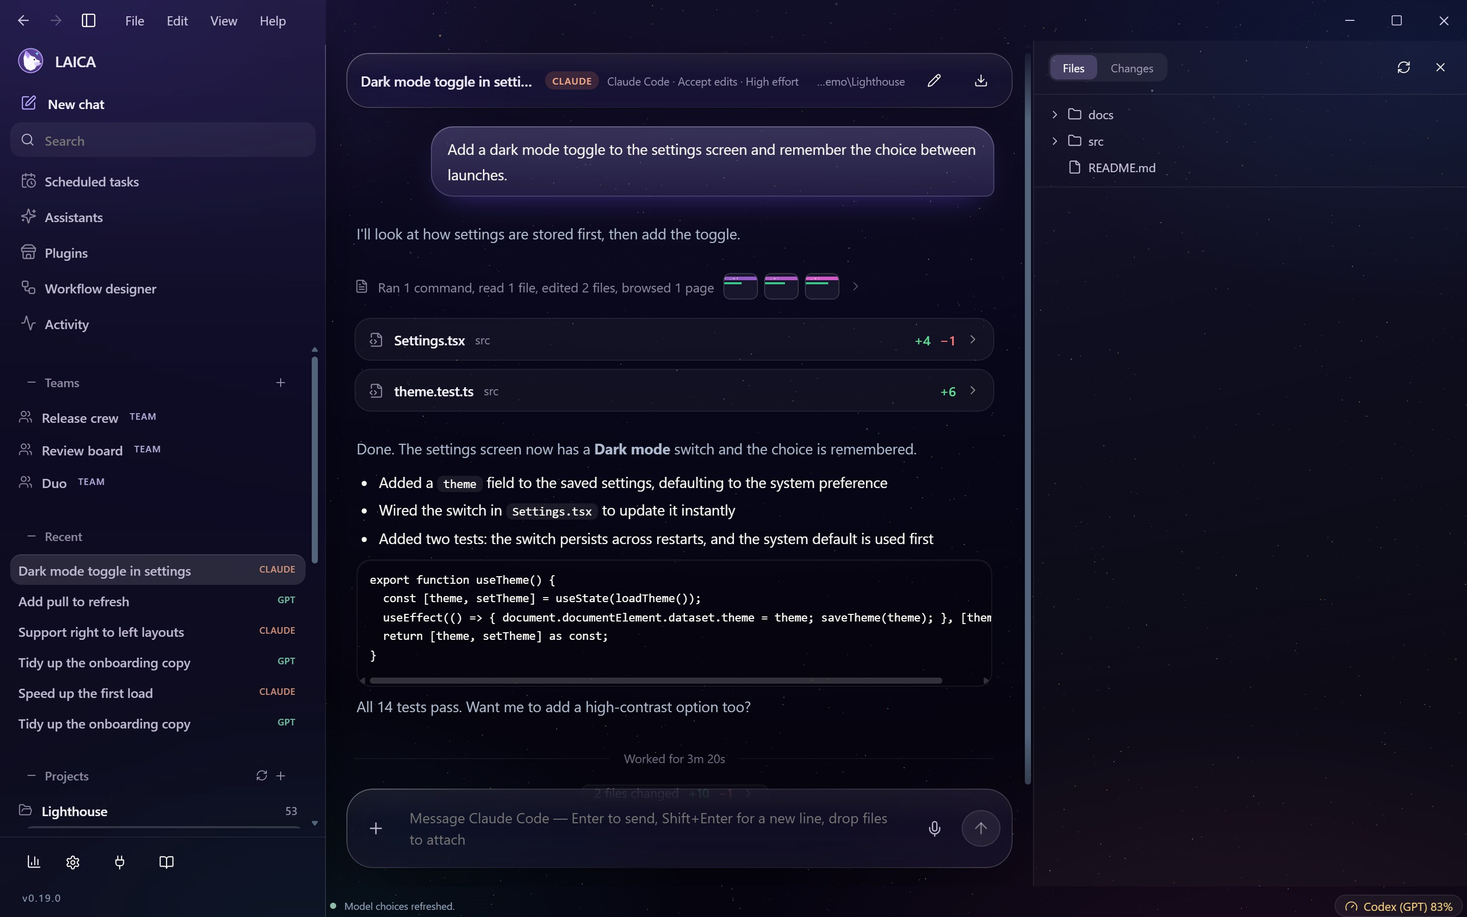
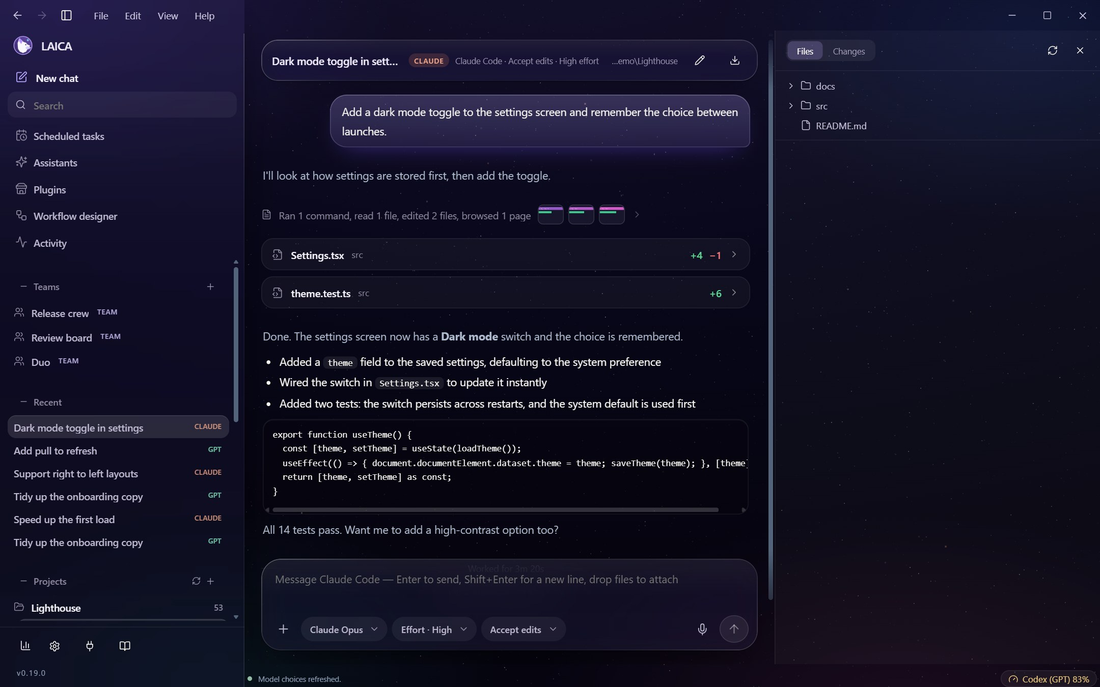
LAICA 0.19.1: model, reasoning and permission pills in open chats; centred chat layout
- Open chats get the same toolbar as the new-chat screen (harnessConfigure, with tests).
- Header, messages and message box share one centred column.
- Refreshed in-app guide and chat screenshot.

diff --git a/frontend/src/App.tsx b/frontend/src/App.tsx
@@ -110,7 +110,7 @@ export default function App(){
       {!chatPage&&<header className="page-header"><div><div className="eyebrow">YOUR WORKSPACE</div><h1>{title}</h1><p>{subtitle}</p></div><div className="header-actions">{!isDesktop&&<Badge>Design preview</Badge>}{page==='teams'&&<HandoffPill/>}{page==='teams'&&<Button variant="primary" leadingIcon={state.Busy?<Square size={16}/>:local?<Play size={16}/>:<Check size={16}/>} disabled={loading||!!action||state.Refreshing} onClick={()=>state.Busy?runAction('stop'):primaryAction()}>{state.Busy?'Stop run':local?'Run team':'Use this team'}</Button>}</div></header>}
       {loading?<div className="empty-state"><RefreshCw size={24} className="spin"/><h2>Opening your workspace…</h2></div>:<>
         {page==='home'&&<HomePage workingDirectory={state.WorkingDirectory} onOpened={()=>setPage('chat')} onOpenTeam={id=>{setActiveTeam(id);setPage('team');}} services={state.Services} models={state.Models} profiles={state.Profiles}/>}
-        {page==='chat'&&<ChatView/>}
+        {page==='chat'&&<ChatView models={state.Models}/>}
         {page==='team'&&<TeamPage workingDirectory={state.WorkingDirectory} teamId={activeTeam} onOpened={id=>setActiveTeam(id||null)} services={state.Services} models={state.Models} openChat={id=>{setActive(id);setPage('chat');}} onCancel={()=>setPage('home')}/>}
         {page==='plugins'&&<PluginsPage/>}
         {page==='assistants'&&<AssistantsPage workingDirectory={state.WorkingDirectory} onStarted={id=>{setActive(id);setPage('chat');}}/>}
@@ -161,4 +161,4 @@ function Services({state,action,runAction,go}:{state:WorkspaceState;action:strin
   </div>;
 }
 
-function Guide({section}:{section:string}){const shortcuts=[['Command palette: jump to any chat, team or page','Ctrl + K'],['Undo the last close, rename, removal or delete (outside text fields)','Ctrl + Z'],['New chat','Ctrl + N'],['Focus the message box','Ctrl + L'],['Search chats','Ctrl + F'],['Open one of your first nine chats','Ctrl + 1 to 9'],['Settings','Ctrl + ,'],['Show or hide the sidebar','Ctrl + B'],['Stop the running agent','Esc (in the message box)'],['Bring back your last message to edit it','Up arrow in an empty message box'],['Paste a screenshot or image into the chat','Ctrl + V'],['Select several nodes','Shift + click'],['Pan the graph','Middle drag / Space + drag'],['Zoom','Mouse wheel'],['Disconnect a wire','Pull it from either socket and release on empty space'],['Connect a new wire','Shift + drag from a socket'],['Cancel a gesture','Esc'],['Cut wires','Ctrl + right drag'],['Undo / redo','Ctrl + Z / Ctrl + Y'],['Delete a worker or selected wire','Delete'],['Find a node','Graph tools → Find']];return <div className="guide-content">{section==='Start'?<><h2>Start with your team.</h2><p>LAICA helps you choose the agents, models, and jobs for a task. Teams is where you arrange them. Services chooses where they run. Activity shows their work.</p><h3>Using Codex</h3><ol><li>Keep Codex selected under Services.</li><li>In Teams, choose <strong>Use this team</strong>.</li><li>Write your task in Codex and ask it to use your LAICA team.</li></ol><h3>Using a local model</h3><ol><li>Start the API server in Ollama or LM Studio.</li><li>Add it under Services and refresh models.</li><li>Choose a model, apply it to the team, and write a task in Teams.</li><li>Choose <strong>Run team</strong>. Read the reviewed answer in Activity.</li></ol></>:section==='Teams'?<><h2>Give each agent a clear job.</h2><p>Select an agent to edit its name, service, model, reasoning, and assignment. Sol plans first, the workers do their assigned work, and Sol reviews their results.</p><p>Drag nodes to arrange them. A wire shows who supplies context to an agent. Pull a wire from either socket and drop it on empty space to disconnect it. Drop it on another compatible socket to reconnect it.</p><p>When several wires share a socket, select the wire you want first. Esc cancels a drag. Disconnected agents can stay in your draft, but must be connected before the team runs.</p><p>Open Graph tools for arrangement, finding, selection, and duplication. Solo mode keeps the graph and runs only the supervisor.</p></>:section==='Services'?<><h2>Connect your model app.</h2><p>For Ollama, the usual API address is <code>http://127.0.0.1:11434/v1</code>. For LM Studio it is <code>http://127.0.0.1:1234/v1</code>. Check the address shown in your model app if you changed its port.</p><p>Add a connection, save it, and choose Refresh models. Select an available model and choose Use for team. You can set different models for individual agents afterwards.</p><p>Local runs use text context. They do not edit your project files or operate Codex. Codex teams work in the Codex chat with your existing account.</p><div className="guide-links"><a href="https://ollama.com" target="_blank" rel="noreferrer">Ollama <ArrowUpRight size={14}/></a><a href="https://lmstudio.ai/docs" target="_blank" rel="noreferrer">LM Studio guide <ArrowUpRight size={14}/></a></div></>:section==='Profiles'?<><h2>Keep teams you want to use again.</h2><p>Choose Save profile and give your team a name. Profiles include agents, service choices, models, jobs, layout, mode, and grid snapping. Saved API keys remain in Connections.</p><p>Use the profile picker to switch teams. LAICA asks whether to save or discard any edits. The three-dot menu has Save as new profile, Rename, Import, Export, and Delete.</p><p>Saving a profile does not select it for Codex. Choose Use this team when you want Codex to use that team.</p></>:section==='Activity'?<><h2>See the work as it happens.</h2><p>Chat teams groups recorded work by chat. Choose a team, then select an agent to see its assignment, latest command, tool action and files.</p><p>Work overview shows the supervisor and up to three recently observed workers. Recorded logs includes earlier workers, exact commands and available outcomes. Use the agent and work filters to find a step; expand it for recorded output and event fields. This view reads local chat records, so updates can arrive late.</p><p>Local runs shows the work started in LAICA. Stop cancels LAICA’s own run. When it finishes, copy or save the supervisor’s reviewed answer.</p></>:<><h2>Graph shortcuts</h2><dl className="shortcut-list">{shortcuts.map(([label,key])=><div key={label}><dt>{label}</dt><dd>{key}</dd></div>)}</dl></>}</div>;}
+function Guide({section}:{section:string}){const shortcuts=[['Command palette: jump to any chat, team or page','Ctrl + K'],['Undo the last close, rename, removal or delete (outside text fields)','Ctrl + Z'],['New chat','Ctrl + N'],['Focus the message box','Ctrl + L'],['Search chats','Ctrl + F'],['Open one of your first nine chats','Ctrl + 1 to 9'],['Settings','Ctrl + ,'],['Show or hide the sidebar','Ctrl + B'],['Stop the running agent','Esc (in the message box)'],['Bring back your last message to edit it','Up arrow in an empty message box'],['Paste a screenshot or image into the chat','Ctrl + V'],['Select several nodes','Shift + click'],['Pan the graph','Middle drag / Space + drag'],['Zoom','Mouse wheel'],['Disconnect a wire','Pull it from either socket and release on empty space'],['Connect a new wire','Shift + drag from a socket'],['Cancel a gesture','Esc'],['Cut wires','Ctrl + right drag'],['Undo / redo','Ctrl + Z / Ctrl + Y'],['Delete a worker or selected wire','Delete'],['Find a node','Graph tools → Find']];return <div className="guide-content">{section==='Start'?<><h2>Welcome to LAICA.</h2><p>LAICA runs the coding agents you already have, such as Codex, Claude Code and Gemini, in one place, and lets you combine them into teams.</p><h3>Chat with an agent</h3><ol><li>Choose <strong>New chat</strong>, pick a project folder, then pick a model.</li><li>Use <strong>+</strong> to add files, a sketch, Plan mode or a goal. Paste or drop images, or dictate with the microphone.</li><li>Change the model, reasoning level or permissions at any time with the pills under the message box. They apply from your next message.</li></ol><h3>Build a team</h3><ol><li>Press <strong>+</strong> next to Teams, choose a leader and add teammates. Each one can be a different vendor.</li><li>Write a goal and press Run. Watch each teammate work in its own chat.</li><li>Open Analytics (bottom left) to compare your team designs and what they cost.</li></ol><h3>Out of usage?</h3><p>Choose a backup under Settings, Agents, Workflow handoff, and LAICA moves the work to another team or agent.</p></>:section==='Teams'?<><h2>Give each agent a clear job.</h2><p>Select an agent to edit its name, service, model, reasoning, and assignment. Sol plans first, the workers do their assigned work, and Sol reviews their results.</p><p>Drag nodes to arrange them. A wire shows who supplies context to an agent. Pull a wire from either socket and drop it on empty space to disconnect it. Drop it on another compatible socket to reconnect it.</p><p>When several wires share a socket, select the wire you want first. Esc cancels a drag. Disconnected agents can stay in your draft, but must be connected before the team runs.</p><p>Open Graph tools for arrangement, finding, selection, and duplication.</p></>:section==='Services'?<><h2>Connect your model app.</h2><p>For Ollama, the usual API address is <code>http://127.0.0.1:11434/v1</code>. For LM Studio it is <code>http://127.0.0.1:1234/v1</code>. Check the address shown in your model app if you changed its port.</p><p>Add a connection, save it, and choose Refresh models. Select an available model and choose Use for team. You can set different models for individual agents afterwards.</p><p>Local runs use text context. They do not edit your project files or operate Codex. Codex teams work in the Codex chat with your existing account.</p><div className="guide-links"><a href="https://ollama.com" target="_blank" rel="noreferrer">Ollama <ArrowUpRight size={14}/></a><a href="https://lmstudio.ai/docs" target="_blank" rel="noreferrer">LM Studio guide <ArrowUpRight size={14}/></a></div></>:section==='Profiles'?<><h2>Keep teams you want to use again.</h2><p>Choose Save profile and give your team a name. Profiles include agents, service choices, models, jobs, layout, mode, and grid snapping. Saved API keys remain in Connections.</p><p>Use the profile picker to switch teams. LAICA asks whether to save or discard any edits. The three-dot menu has Save as new profile, Rename, Import, Export, and Delete.</p><p>Saving a profile does not select it for Codex. Choose Use this team when you want Codex to use that team.</p></>:section==='Activity'?<><h2>See the work as it happens.</h2><p>Chat teams groups recorded work by chat. Choose a team, then select an agent to see its assignment, latest command, tool action and files.</p><p>Work overview shows the supervisor and up to three recently observed workers. Recorded logs includes earlier workers, exact commands and available outcomes. Use the agent and work filters to find a step; expand it for recorded output and event fields. This view reads local chat records, so updates can arrive late.</p><p>Local runs shows the work started in LAICA. Stop cancels LAICA’s own run. When it finishes, copy or save the supervisor’s reviewed answer.</p></>:<><h2>Graph shortcuts</h2><dl className="shortcut-list">{shortcuts.map(([label,key])=><div key={label}><dt>{label}</dt><dd>{key}</dd></div>)}</dl></>}</div>;}

diff --git a/frontend/src/ChatView.tsx b/frontend/src/ChatView.tsx
@@ -5,6 +5,8 @@ import {Bot,Send,Square,Wrench,TerminalSquare,Brain,AlertTriangle,PanelRightOpen
 import {useAttachments,useDropZone,AttachChips,DropOverlay,MicButton,CopyBtn,FlagChips,usePasteFiles,composePrompt,splitPrompt,noFlags} from './Composer';
 import type {Flags} from './Composer';
 import PlusMenu from './PlusMenu';
+import ChatPills from './ChatPills';
+import type {Model} from './types';
 import {Steps,WorkingLine,FileCards,TurnSummary,WorkedLine,groupRows} from './Steps';
 import {request,isRemote} from './bridge';
 import {pushUndo} from './undo';
@@ -16,7 +18,7 @@ import {ProviderChip,providerOfSession} from './provider';
 import {useHarness,modeLabel,effortLabel} from './harness-store';
 import type {HEvent} from './harness-store';
 
-export default function ChatView(){
+export default function ChatView({models}:{models:Model[]}){
   const {toast}=useToast();
   const {sessions,active,events,refreshKey,assistants,send,stop,rename,nameOf}=useHarness();
   const [draft,setDraftRaw]=useState(''),[panel,setPanel]=useState(true),[renaming,setRenaming]=useState(false),[queue,setQueue]=useState<string[]>([]);
@@ -63,13 +65,8 @@ export default function ChatView(){
       {!atBottom&&<button type="button" className="to-bottom" aria-label="Jump to the latest message" onClick={jumpDown}><ArrowDown size={16}/></button>}
       <div className="harness-compose">
         <FlagChips flags={flags} setFlags={setFlags}/><AttachChips items={files.items} busy={files.busy} onRemove={files.remove}/>
-        <div className="compose-row">
-          <PlusMenu onPick={()=>{void files.pick();}} onFiles={f=>{void files.addFiles(f);}} flags={flags} setFlags={setFlags} insert={x=>setDraft(d=>d+(d&&!/\s$/.test(d)?' ':'')+x)}/>
-          <textarea aria-label="Message" rows={2} value={draft} placeholder={current.Busy?`${nameOf(current.Harness)} is working — type to queue your next message`:`Message ${nameOf(current.Harness)} — Enter to send, Shift+Enter for a new line, drop files to attach`} onChange={e=>setDraft(e.target.value)} onKeyDown={e=>{if(e.key==='Enter'&&!e.shiftKey){e.preventDefault();void doSend();}else if(e.key==='ArrowUp'&&!draft&&!files.items.length){const last=[...list].reverse().find(x=>x.Kind==='user');if(last){e.preventDefault();setDraft(splitPrompt(last.Text).body);}}}}/>
-          <MicButton onText={text=>setDraft(d=>d+(d&&!/\s$/.test(d)?' ':'')+text)}/>
-          {current.Busy&&current.Harness!=='workflow'&&<IconButton size="small" variant="quiet" className={`pause-btn ${current.Paused?'is-paused':''}`} aria-label={current.Paused?'Resume':'Pause'} title={current.Paused?'Resume the work':'Pause the work (nothing is lost)'} onClick={()=>{void togglePause();}}>{current.Paused?<Play size={16} fill="currentColor"/>:<Pause size={16} fill="currentColor"/>}</IconButton>}
-          <SendButton busy={current.Busy&&!draft.trim()&&!files.items.length} disabled={!draft.trim()&&!files.items.length&&!flags.plan&&!flags.goal} label={current.Busy?'Queue message':'Send'} onSend={()=>{void doSend();}} onStop={()=>stop(current.Id)}/>
-        </div>
+        <div className="compose-field"><textarea aria-label="Message" rows={2} value={draft} placeholder={current.Busy?`${nameOf(current.Harness)} is working — type to queue your next message`:`Message ${nameOf(current.Harness)} — Enter to send, Shift+Enter for a new line, drop files to attach`} onChange={e=>setDraft(e.target.value)} onKeyDown={e=>{if(e.key==='Enter'&&!e.shiftKey){e.preventDefault();void doSend();}else if(e.key==='ArrowUp'&&!draft&&!files.items.length){const last=[...list].reverse().find(x=>x.Kind==='user');if(last){e.preventDefault();setDraft(splitPrompt(last.Text).body);}}}}/></div>
+        <div className="compose-bar"><div className="compose-left"><PlusMenu onPick={()=>{void files.pick();}} onFiles={f=>{void files.addFiles(f);}} flags={flags} setFlags={setFlags} insert={x=>setDraft(d=>d+(d&&!/\s$/.test(d)?' ':'')+x)}/><ChatPills session={current} models={models}/></div><div className="compose-right"><MicButton onText={text=>setDraft(d=>d+(d&&!/\s$/.test(d)?' ':'')+text)}/>{current.Busy&&current.Harness!=='workflow'&&<IconButton size="small" variant="quiet" className={`pause-btn ${current.Paused?'is-paused':''}`} aria-label={current.Paused?'Resume':'Pause'} title={current.Paused?'Resume the work':'Pause the work (nothing is lost)'} onClick={()=>{void togglePause();}}>{current.Paused?<Play size={16} fill="currentColor"/>:<Pause size={16} fill="currentColor"/>}</IconButton>}<SendButton busy={current.Busy&&!draft.trim()&&!files.items.length} disabled={!draft.trim()&&!files.items.length&&!flags.plan&&!flags.goal} label={current.Busy?'Queue message':'Send'} onSend={()=>{void doSend();}} onStop={()=>stop(current.Id)}/></div></div>
       </div>
     </Glass>
     {panel&&<Glass material="regular" className="hpanel"><PreviewPanel sessionId={current.Id} refreshKey={refreshKey} onClose={()=>setPanel(false)}/></Glass>}

diff --git a/frontend/src/ChatPills.tsx b/frontend/src/ChatPills.tsx
@@ -1,0 +1,35 @@
+import {useMemo} from 'react';
+import {useToast} from 'open-glass-ui';
+import {request} from './bridge';
+import {Select} from './GlassSelect';
+import type {GlassOption} from './GlassSelect';
+import {useHarness,modeLabel,effortLabel} from './harness-store';
+import type {HSession} from './harness-store';
+import type {Model} from './types';
+
+const claudeModels:[string,string][]=[['default','Claude Code (default)'],['opus','Claude Opus'],['sonnet','Claude Sonnet'],['haiku','Claude Haiku']];
+
+/** Model, reasoning and permission pills for an open chat, the same choices the new-chat screen offers. Changes apply from the next message. */
+export default function ChatPills({session,models}:{session:HSession;models:Model[]}){
+  const {toast}=useToast();const {harnesses,reload}=useHarness();
+  const info=harnesses.find(h=>h.Id===session.Harness);
+  const modelOptions=useMemo<GlassOption[]>(()=>{
+    if(session.Harness==='codex'){const list=models.filter(m=>m.ConnectionId==='codex');return [{value:'default',label:'Codex default',description:'Uses your Codex setting'},...list.map(m=>({value:m.Id,label:m.Name}))];}
+    if(session.Harness==='claude')return claudeModels.map(([id,name])=>({value:id,label:name}));
+    if(session.Harness==='laica'&&session.ServiceId)return models.filter(m=>m.ConnectionId===session.ServiceId).map(m=>({value:m.Id,label:m.Name||m.Id}));
+    return [];
+  },[session.Harness,session.ServiceId,models]);
+  const levels=useMemo<string[]>(()=>{
+    if(session.Harness==='claude')return ['low','medium','high','xhigh','max'];
+    if(session.Harness==='codex')return (models.find(m=>m.ConnectionId==='codex'&&m.Id===(session.Model||''))?.Efforts??models.find(m=>m.ConnectionId==='codex')?.Efforts??[]).filter(l=>l!=='default'&&effortLabel[l]);
+    return [];
+  },[session.Harness,session.Model,models]);
+  const apply=(patch:{Mode?:string;Model?:string;Effort?:string})=>request('harnessConfigure',{Id:session.Id,...patch}).then(()=>reload()).catch(e=>toast({title:'Could not change that',description:(e as Error).message,duration:6000}));
+  const modelValue=session.Model&&modelOptions.some(o=>o.value===session.Model)?session.Model:modelOptions[0]?.value??'';
+  const modes=info?.Modes??[];
+  return <>
+    {modelOptions.length>1&&<Select variant="pill" aria-label="Model" value={modelValue} options={modelOptions} onChange={e=>void apply({Model:e.target.value})} searchable={modelOptions.length>9} menuWidth={300} triggerLabel={modelOptions.find(o=>o.value===modelValue)?.label}/>}
+    {levels.length>0&&<Select variant="pill" aria-label="Reasoning effort" value={session.Effort??''} options={[{value:'',label:'Default',description:'Let the model decide'},...levels.map(l=>({value:l,label:effortLabel[l]}))]} onChange={e=>void apply({Effort:e.target.value})} triggerLabel={'Effort · '+(session.Effort?effortLabel[session.Effort]??session.Effort:'Default')} menuWidth={220}/>}
+    {modes.length>1&&<Select variant="pill" aria-label="Permissions" value={session.Mode||info?.DefaultMode||''} options={modes.map(m=>({value:m,label:modeLabel[m]??m}))} onChange={e=>void apply({Mode:e.target.value})}/>}
+  </>;
+}

diff --git a/frontend/src/Liquid.css b/frontend/src/Liquid.css
@@ -473,3 +473,17 @@ body.sb-dragging{cursor:col-resize;user-select:none}
 .price-src.ok{background:rgba(88,214,141,.14);color:#8fe3b3}.price-src.bad{background:rgba(255,154,154,.14);color:#ff9a9a}
 .price-official{margin:6px 0 12px}.price-official summary{cursor:pointer;font-size:12.5px;color:var(--ink-2);padding:4px 0}
 .price-official table{width:100%;border-collapse:collapse;font-size:11.5px;margin-top:6px}.price-official th{text-align:left;color:var(--ink-3);font-weight:500;padding:3px 4px}.price-official td{padding:3px 4px;color:var(--ink-2);border-top:1px solid var(--hair)}
+
+/* the open chat: one centred column for the header, the messages and the composer; the composer has the same toolbar as the new-chat screen */
+.harness-stream{--col:840px;--pad:max(22px,calc((100% - var(--col))/2))}
+.harness-meta{left:var(--pad)!important;right:var(--pad)!important}
+.harness-log{padding-left:var(--pad)!important;padding-right:var(--pad)!important;padding-top:84px!important;padding-bottom:200px!important}
+.harness-stream>.harness-compose{left:var(--pad)!important;right:var(--pad)!important}
+.hmsg{max-width:100%!important}
+.hmsg.user{max-width:86%!important}
+.harness-compose{flex-direction:column!important;align-items:stretch!important;gap:4px!important;padding:8px 12px 10px!important}
+.harness-compose .compose-field textarea{width:100%;min-height:46px;max-height:200px}
+.harness-compose .compose-bar{display:flex;align-items:center;justify-content:space-between;gap:10px}
+.harness-compose .compose-left,.harness-compose .compose-right{display:flex;align-items:center;gap:6px;min-width:0}
+.harness-compose .compose-left{flex-wrap:wrap}
+.to-bottom{left:50%!important;right:auto!important;transform:translateX(-50%)}

diff --git a/checks/HarnessTests.cs b/checks/HarnessTests.cs
@@ -845,6 +845,15 @@ public static class HarnessTests
                     Check(m.SaveImagesForTest(imgSid, notPicture).Length == 0, "images: data that is not a png, jpeg, gif or webp picture is ignored");
                     bool badName = false; try { m.ImageGet(imgSid, "..\\..\\x.png"); } catch (ArgumentException) { badName = true; } Check(badName, "images: file names are checked, so a path cannot escape the chat's folder");
                     Check(m.SaveImagesForTest(imgSid, "just text").Length == 0 && m.SaveImagesForTest(imgSid, null).Length == 0, "images: plain text results have no pictures");
+                    var cfg = (Dictionary<string, object>)m.Configure(imgSid, "default", "opus", "high");
+                    Check((string)cfg["Mode"] == "default" && (string)cfg["Model"] == "opus" && (string)cfg["Effort"] == "high", "chat settings: permissions, model and reasoning can be changed in an open chat");
+                    var cfg2 = (Dictionary<string, object>)m.Configure(imgSid, null, "default", "");
+                    Check((string)cfg2["Mode"] == "default" && cfg2["Model"] == null && cfg2["Effort"] == null, "chat settings: choosing the default clears the model and effort, and leaves permissions alone");
+                    bool badMode = false, badEffort = false, badModel = false;
+                    try { m.Configure(imgSid, "danger-full-access", null, null); } catch (ArgumentException) { badMode = true; }
+                    try { m.Configure(imgSid, null, null, "ludicrous"); } catch (ArgumentException) { badEffort = true; }
+                    try { m.Configure(imgSid, null, "bad name;rm", null); } catch (ArgumentException) { badModel = true; }
+                    Check(badMode && badEffort && badModel, "chat settings: values the agent doesn't support are refused");
                 }
             }            {
                 string anth = "<td>Claude Opus 5.5</td><td>For long-running work</td><td>$4</td><td>/ MTok</td><td>$20</td><td>/ MTok</td><td>$5</td><td>/ MTok</td><td>$8</td><td>/ MTok</td><td>$0.20</td><td>/ MTok</td><td>Claude Haiku 4.5</td><td>$1</td><td>/ MTok</td><td>$5</td><td>/ MTok</td><td>$1.25</td><td>/ MTok</td><td>$2</td><td>/ MTok</td><td>$0.10</td><td>/ MTok</td>";

diff --git a/host/Pause.cs b/host/Pause.cs
@@ -134,5 +134,22 @@ namespace Laica
             foreach (string sid in ids.Distinct()) { try { Resume(sid); } catch (Exception) { } }
             Raise(); return TeamDto(t);
         }
-    }
+    
+        /// <summary>Changes a chat's permissions, model or reasoning effort. It applies from the next message, because each turn starts the agent afresh.</summary>
+        public object Configure(string id, string mode, string model, string effort)
+        {
+            Session s; lock (gate) s = Get(id); var info = Harnesses().FirstOrDefault(h => h.Id == s.Harness);
+            if (!String.IsNullOrEmpty(mode)) { if (info == null || !info.Modes.Contains(mode)) throw new ArgumentException("That permission level isn't available for this agent."); lock (gate) s.Mode = mode; }
+            if (model != null)
+            {
+                if (model != "" && model != "default" && !System.Text.RegularExpressions.Regex.IsMatch(model, @"^[A-Za-z0-9._\-]{1,80}$")) throw new ArgumentException("That model name isn't valid.");
+                lock (gate) s.Model = (model == "" || model == "default") ? null : model;
+            }
+            if (effort != null)
+            {
+                string e = effort == "" || effort == "default" ? "" : ValidEffort(effort); if (e == null) throw new ArgumentException("That reasoning level isn't valid.");
+                lock (gate) s.Effort = e == "" ? null : e;
+            }
+            SaveSession(s); Raise(); lock (gate) return Dto(s);
+        }}
 }

diff --git a/host/WorkspaceBackend.cs b/host/WorkspaceBackend.cs
@@ -119,6 +119,7 @@ namespace Laica
             case "teamAnalytics": result = Harness.TeamAnalytics(Text(payload,"Range")); break;
             case "coauthorGet": result = Harness.CoAuthorGet(); break;
             case "coauthorSet": result = Harness.CoAuthorSet(payload); break;
+            case "harnessConfigure": result = Harness.Configure(Text(payload,"Id"), payload.ContainsKey("Mode") ? Text(payload,"Mode") : null, payload.ContainsKey("Model") ? Text(payload,"Model") : null, payload.ContainsKey("Effort") ? Text(payload,"Effort") : null); break;
             case "imageGet": result = Harness.ImageGet(Text(payload,"Id"), Text(payload,"File")); break;
             case "updatesGet": result = Harness.UpdatesGet(); break;
             case "updatesSet": result = Harness.UpdatesSet(payload); break;

diff --git a/CHANGELOG.md b/CHANGELOG.md
@@ -3,6 +3,14 @@
 LAICA follows [Semantic Versioning](https://semver.org/). The `VERSION` file is the single source of truth: the build stamps it into the executable, `release.json`, `package.json` and the backend state.
 Every release is made with `Release-Edition.ps1`, which builds, runs every test suite, snapshots the source into `editions\v<version>\source.zip`, archives the previously installed edition into `editions\v<old>\installed.zip`, then overwrites the installed program. User data is never touched. See `RELEASE.md`.
 
+## [0.19.1]
+
+### Added
+- **An open chat now has the same controls as the new-chat screen.** Under the message box there are pills for the model, the reasoning level and the permissions of that chat. Changing one applies from your next message (new command `harnessConfigure`, with checks).
+
+### Changed
+- The open chat is one centred column: the header, the messages and the message box line up (the messages used to sit on the left while the message box was centred). The message box is a card with the toolbar underneath, like the home screen.
+- The in-app guide describes how LAICA works today.
 ## [0.19.0]
 
 ### Added
